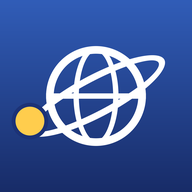
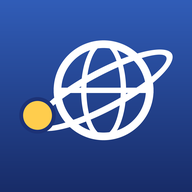
图标整体按外框居中并略向上提；图标链接加版本号避免 iOS 缓存旧图
Claude-Session: https://claude.ai/code/session_01P3JKNYSkJmxCKrJadSzQ2i

Changed region(s): [[0.0625, 0.1875, 0.9062, 0.7812]]

diff --git a/index.html b/index.html
@@ -9,8 +9,8 @@
 <meta name="mobile-web-app-capable" content="yes">
 <meta name="apple-mobile-web-app-status-bar-style" content="default">
 <meta name="apple-mobile-web-app-title" content="PayGlobe">
-<link rel="apple-touch-icon" href="icons/apple-touch-icon.png">
-<link rel="icon" type="image/png" sizes="192x192" href="icons/icon-192.png">
+<link rel="apple-touch-icon" href="icons/apple-touch-icon.png?v=3">
+<link rel="icon" type="image/png" sizes="192x192" href="icons/icon-192.png?v=3">
 <link rel="manifest" href="manifest.json">
 <style>
 /* 布局：紧凑的两栏信息台（宽屏两栏、手机单栏）；每个功能区一条蓝底白字标题带，部分区块垫浅色底 */
